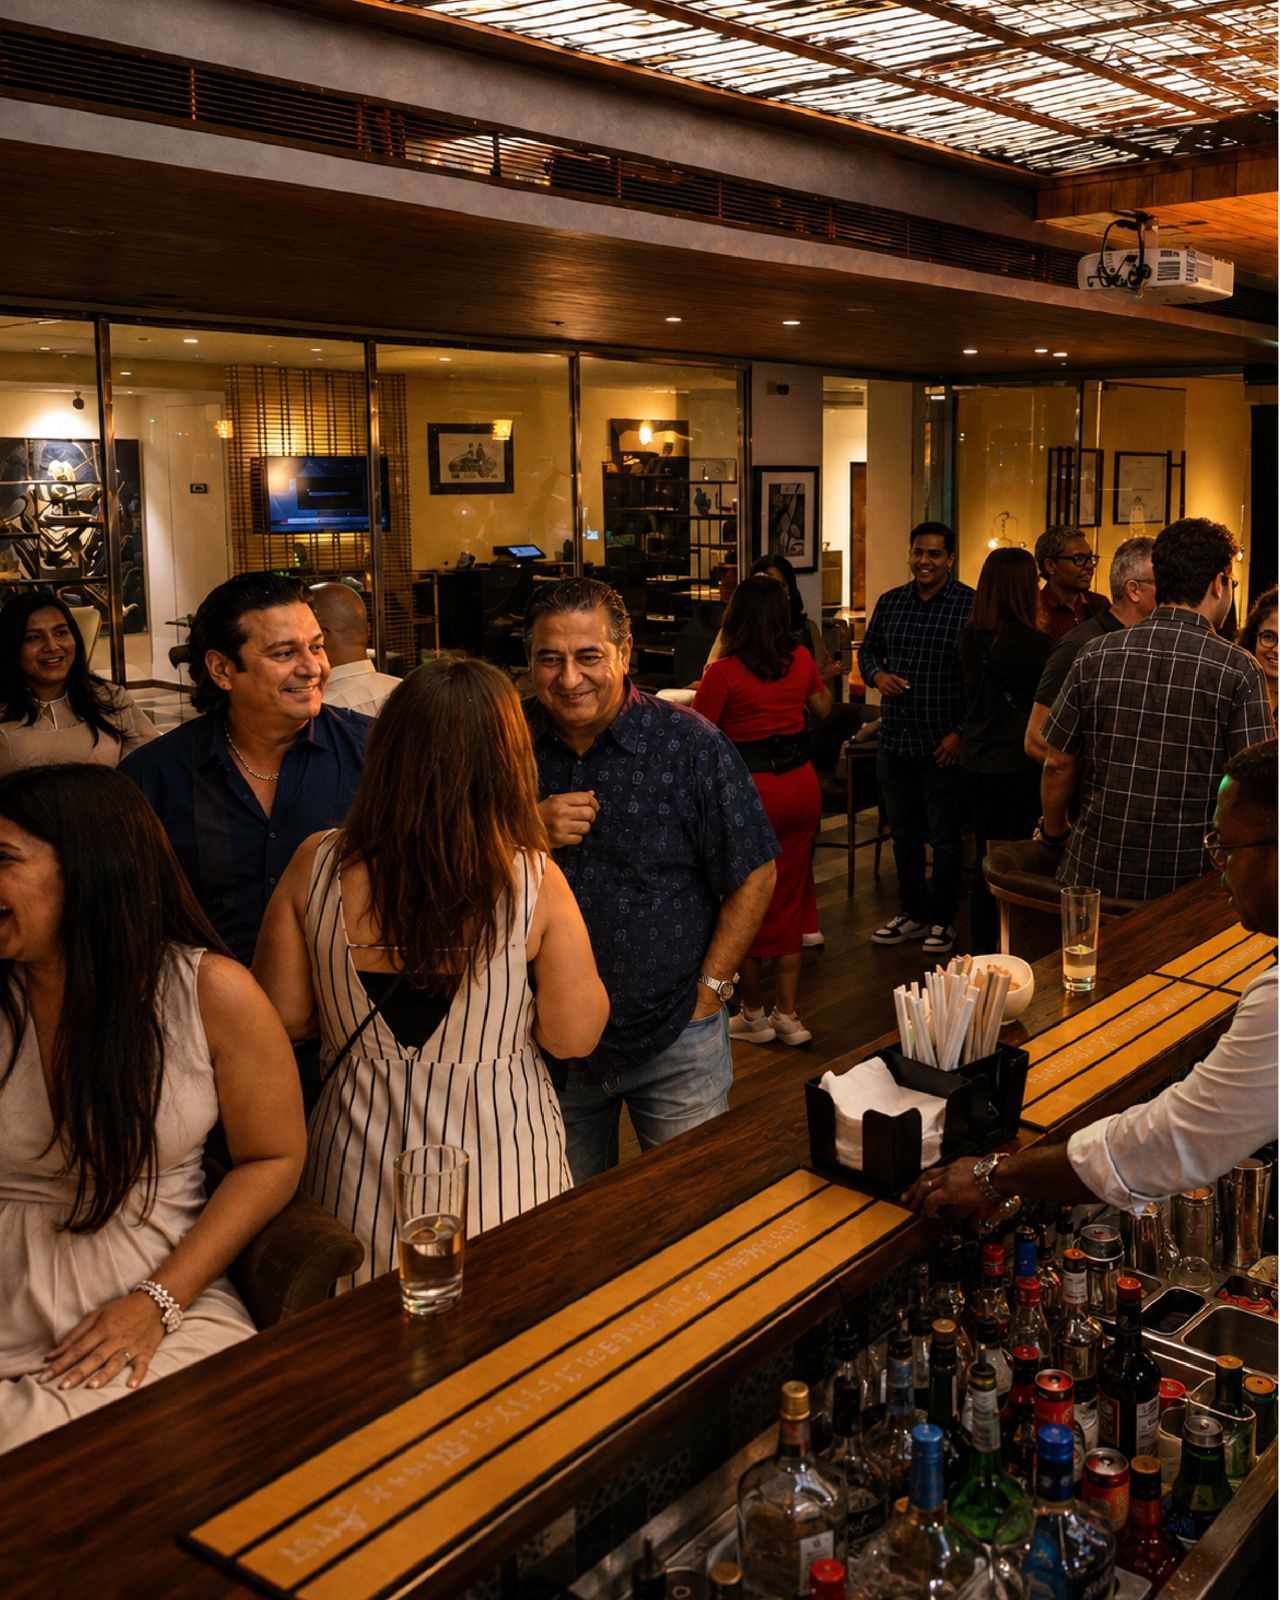
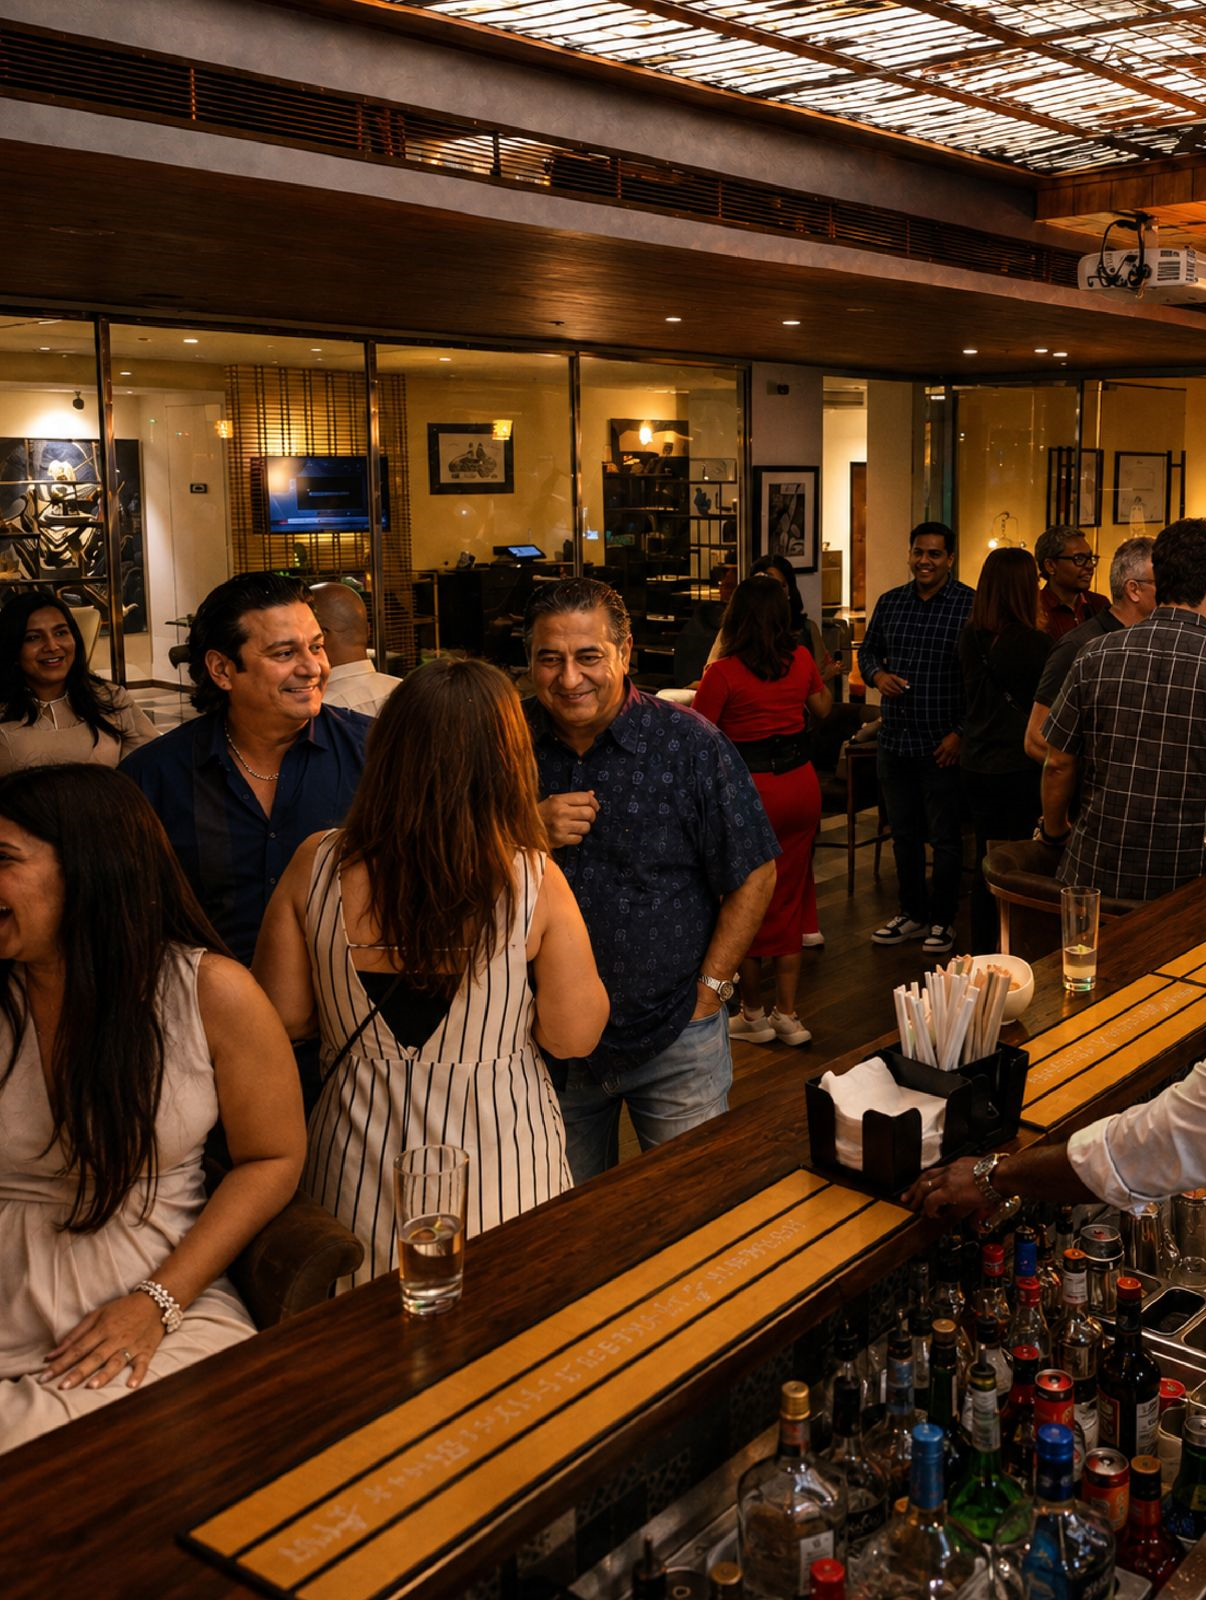
updated

diff --git a/index.html b/index.html
@@ -1740,24 +1740,24 @@
           <span class="eyebrow">The Indus Club</span>
           <h2 class="txt-gold">The Indus Club</h2>
           <hr class="rule center" />
-          <p>For some, success creates access.</p>
           <p>
-            For a smaller number, it creates the expectation of a different
-            kind of environment.
+            For some, success creates access. While for a smaller number, it
+            creates the expectation of a different kind of environment.
           </p>
           <p>
             An environment where privacy does not have to be requested. Where
             important conversations can take place without ceremony. Where a
             dinner can bring together extraordinary lives and perspectives.
-            Where an introduction can lead to an association that would not
-            have happened elsewhere.
+            Where an introduction can lead to an association that would not have
+            happened elsewhere.
           </p>
-          <p>The Indus Club is created for that world.</p>
           <p>
-            A private members club for individuals who understand that the
-            greatest privilege is not always having access to everything.
+            The Indus Club is a private members club for individuals who
+            understand that the greatest privilege is not always having access
+            to everything. Sometimes, it is belonging somewhere not everyone can
+            enter.
           </p>
-          <p>Sometimes, it is belonging somewhere not everyone can enter.</p>
+
           <div class="jump-row">
             <a href="#accomplished"
               >Where Mumbai's Most Accomplished Come Together</a
@@ -1802,25 +1802,18 @@
             </h2>
             <hr class="rule" />
             <p>
-              Set within the influential business district of Bandra Kurla
-              Complex, The Indus Club is conceived for a rarefied circle of
-              individuals whose names, enterprises, achievements and
-              influence have contributed towards building industries,
-              institutions and culture.
+              The Indus Club is conceived for a rarefied circle of individuals
+              whose names, enterprises, achievements and influence have
+              contributed towards building industries, institutions and culture.
             </p>
             <p>
               Industrialists. Global business leaders. Founders. Film
-              personalities. Sports icons. Prominent professionals.
-              Visionaries whose lives move across boardrooms, private
-              residences, international capitals and the most consequential
-              rooms in the country.
+              personalities. Sports icons. Prominent professionals. Visionaries
+              whose lives move across boardrooms, private residences,
+              international capitals and the most consequential rooms in the
+              country.
             </p>
-            <p>
-              This is not a conventional social club. It is a private haven
-              created for individuals accustomed to access, discretion and an
-              environment that understands the demands of an extraordinary
-              life.
-            </p>
+
             <p>
               As an Ultra Luxe private members' club in BKC, The Indus Club
               occupies a distinctive position within Mumbai's most important
@@ -1870,8 +1863,7 @@
             <h3>A World Beyond Membership</h3>
             <p>
               There is a difference between having access to facilities and
-              belonging to a world. The Indus Club is created around the
-              latter.
+              belonging to a world. The Indus Club is created around the latter.
             </p>
             <p>
               For individuals exploring an exclusive private members' club in
@@ -2146,7 +2138,7 @@
         <div class="feature-art full-bleed reveal-scale" data-parallax>
           <img
             class="zoomable"
-            src="assets/placeholder.svg"
+            src="images/The Art of Being Well Connected.jpeg"
             alt="Riviera Lounge at The Indus Club at dusk, a relaxed setting for conversation"
           />
           <div class="feature-art-shade"></div>
@@ -2181,7 +2173,7 @@
           <div class="split-media reveal">
             <img
               class="zoomable"
-              src="assets/placeholder.svg"
+              src="images/Designed for Those Accustomed to Distinction.PNG"
               alt="Warren Buffett room by night at The Indus Club, a fine-dining setting shaped by contemporary design"
             />
           </div>
@@ -2198,14 +2190,14 @@
             </p>
             <p>
               Individual rooms have distinct personalities. Art and design
-              become part of the experience rather than background
-              decoration. The aim is to create surroundings worthy of the
-              people who use them.
+              become part of the experience rather than background decoration.
+              The aim is to create surroundings worthy of the people who use
+              them.
             </p>
             <p>
               There is sophistication, but no need for excess. There is
-              opulence, but the experience is ultimately about how naturally
-              it blends into the member's lives.
+              opulence, but the experience is ultimately about how naturally it
+              blends into the member's lives.
             </p>
           </div>
         </div>
@@ -2221,7 +2213,7 @@
           <div class="split-media reveal">
             <img
               class="zoomable"
-              src="assets/placeholder.svg"
+              src="images/What Makes a Club Ultra Luxe.PNG"
               alt="Panoramic view across the Riviera Lounge, Sinatra Bar and Skye Lounge at The Indus Club at dusk"
             />
           </div>
@@ -2230,8 +2222,8 @@
             <hr class="rule" />
             <p>
               A truly Ultra Luxe club is not defined by its interiors, price or
-              the difficulty of obtaining a membership. Its character comes
-              from who belongs.
+              the difficulty of obtaining a membership. Its character comes from
+              who belongs.
             </p>
             <p>
               The most distinguished clubs are shaped by a thoughtful
@@ -2242,8 +2234,8 @@
             <p>
               At The Indus Club, these elements come together through its
               membership approach, BKC location and environment designed for
-              accomplished individuals. The result is a destination where
-              access carries meaning.
+              accomplished individuals. The result is a destination where access
+              carries meaning.
             </p>
           </div>
         </div>
@@ -2259,7 +2251,7 @@
           <div class="split-media reveal">
             <img
               class="zoomable"
-              src="assets/placeholder.svg"
+              src="images/How Do I Get Invited to The Indus Club.PNG"
               alt="Members at a themed gathering at The Indus Club"
             />
           </div>
@@ -2282,6 +2274,16 @@
               Because belonging to a club of this nature is about more than
               access to facilities, membership is given the importance it
               deserves.
+            </p>
+
+            <p>An Exclusive for Meaningful Connections</p>
+            <p>
+              The Indus Club stands as an unparalleled sanctuary for Mumbai’s
+              most influential figures, offering an environment defined by
+              distinction, discretion, and meaningful connection. More than a
+              venue, it represents a refined enclave where extraordinary lives
+              intersect effortlessly. For those who belong, it remains the
+              ultimate expression of exclusivity and uncompromised privacy.
             </p>
           </div>
         </div>

diff --git a/design.html b/design.html
@@ -1743,40 +1743,101 @@
       <!-- INSPIRED BY STORIES — Warren Buffett room, day/night interactive swap -->
       <section class="pillar" id="stories">
         <div class="split">
-          <div class="split-media dn-swap reveal" data-thumbs>
-            <img
-              class="dn-day zoomable"
-              src="images/updated/warren-buffet-day.jpg"
-              alt="Warren Buffett room by day at The Indus Club, a boardroom with skyline views"
-            />
-            <img
-              class="dn-night zoomable"
-              src="images/updated/warren-buffet-night.jpg"
-              alt="Warren Buffett room by night at The Indus Club, transformed into a fine-dining setting"
-            />
-            <span class="dn-badge" aria-hidden="true">
+          <div class="split-media carousel reveal" data-carousel>
+            <div class="car-viewport">
+              <div class="car-track">
+                <div class="car-slide">
+                  <div
+                    class="car-slide-bg"
+                    style="
+                      background-image: url(&quot;images/updated/warren-buffet-day.jpg&quot;);
+                    "
+                  ></div>
+                  <img
+                    class="zoomable"
+                    src="images/updated/warren-buffet-day.jpg"
+                    alt="Warren Buffett room at The Indus Club, a boardroom with skyline views"
+                  />
+                </div>
+                <div class="car-slide">
+                  <div
+                    class="car-slide-bg"
+                    style="
+                      background-image: url(&quot;images/updated/michelin-private-dining.jpg&quot;);
+                    "
+                  ></div>
+                  <img
+                    class="zoomable"
+                    src="images/updated/michelin-private-dining.jpg"
+                    alt="Michelin private dining room at The Indus Club"
+                  />
+                </div>
+                <div class="car-slide">
+                  <div
+                    class="car-slide-bg"
+                    style="
+                      background-image: url(&quot;assets/img/about-us/Lindbergh__banner.png&quot;);
+                    "
+                  ></div>
+                  <img
+                    class="zoomable"
+                    src="assets/img/about-us/Lindbergh__banner.png"
+                    alt="Lindbergh room at The Indus Club"
+                  />
+                </div>
+                <div class="car-slide">
+                  <div
+                    class="car-slide-bg"
+                    style="
+                      background-image: url(&quot;images/Scorsese__banner.png&quot;);
+                    "
+                  ></div>
+                  <img
+                    class="zoomable"
+                    src="images/Scorsese__banner.png"
+                    alt="Scorsese room at The Indus Club, a cinematic setting for creative meetings"
+                  />
+                </div>
+                <div class="car-slide">
+                  <div
+                    class="car-slide-bg"
+                    style="
+                      background-image: url(&quot;assets/placeholder.svg&quot;);
+                    "
+                  ></div>
+                  <img
+                    class="zoomable"
+                    src="assets/placeholder.svg"
+                    alt="JRD room at The Indus Club, a tribute to the vision of J.R.D. Tata"
+                  />
+                </div>
+              </div>
+            </div>
+            <button class="car-btn car-prev" aria-label="Previous slide">
               <svg
-                class="icon-sun"
                 viewBox="0 0 24 24"
                 fill="none"
                 stroke="currentColor"
-                stroke-width="1.7"
+                stroke-width="1.8"
               >
-                <circle cx="12" cy="12" r="4" />
-                <path
-                  d="M12 2v2M12 20v2M4.9 4.9l1.4 1.4M17.7 17.7l1.4 1.4M2 12h2M20 12h2M4.9 19.1l1.4-1.4M17.7 6.3l1.4-1.4"
-                />
+                <path d="M15 18l-6-6 6-6" />
               </svg>
+            </button>
+            <button class="car-btn car-next" aria-label="Next slide">
               <svg
-                class="icon-moon"
                 viewBox="0 0 24 24"
                 fill="none"
                 stroke="currentColor"
-                stroke-width="1.7"
+                stroke-width="1.8"
               >
-                <path d="M20 14.5A8 8 0 1110 4a6.5 6.5 0 0010 10.5z" />
+                <path d="M9 6l6 6-6 6" />
               </svg>
-            </span>
+            </button>
+            <div
+              class="car-dots"
+              role="tablist"
+              aria-label="The five signature rooms at The Indus Club"
+            ></div>
           </div>
           <div class="split-content reveal">
             <h2 class="txt-gold">

diff --git a/accolades.html b/accolades.html
@@ -590,6 +590,24 @@
       .intro-card:has(.jump-row) {
         text-align: left;
       }
+      /* the Accolades pull-quote card has its own short 2-link jump-row;
+         it should stay centered, unlike the multi-pill navigation rows
+         on other pages that the rule above is meant for */
+      .intro-card:has(.quote-mark) {
+        text-align: center;
+      }
+      .intro-card:has(.quote-mark) .jump-row {
+        display: flex;
+        flex-wrap: wrap;
+        justify-content: center;
+        gap: 0.9rem;
+      }
+      .intro-card:has(.quote-mark) .jump-row a {
+        width: auto;
+        flex: 0 1 auto;
+        justify-content: center;
+        text-align: center;
+      }
       .intro-card + .intro-card {
         margin-top: clamp(1.5rem, 3vw, 2.5rem);
       }
@@ -607,6 +625,9 @@
       }
       .intro-card:has(.jump-row) .rule.center {
         margin-inline: 0;
+      }
+      .intro-card:has(.quote-mark) .rule.center {
+        margin-inline: auto;
       }
       .intro-card p {
         font-size: 1.02rem;

diff --git a/careers.html b/careers.html
@@ -1622,7 +1622,7 @@
     <section class="intro" id="closing">
       <div class="container">
         <div class="intro-card glass-light reveal">
-          <h1 class="txt-gold">Careers</h1>
+          <h1 class="txt-gold">Be Part of The Indus Club</h1>
           <hr class="rule center" />
           <p>
             At The Indus Club, we are always open to hear from exceptionally
